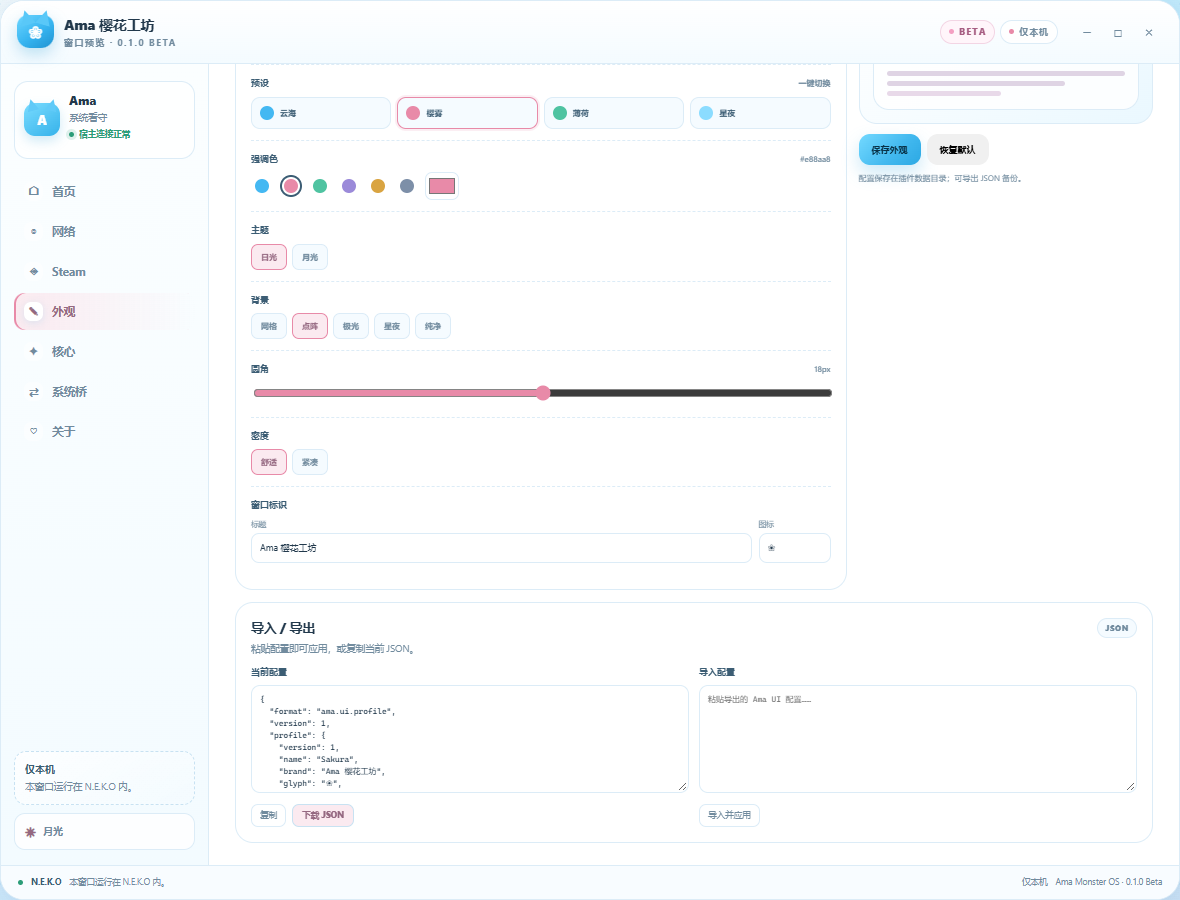
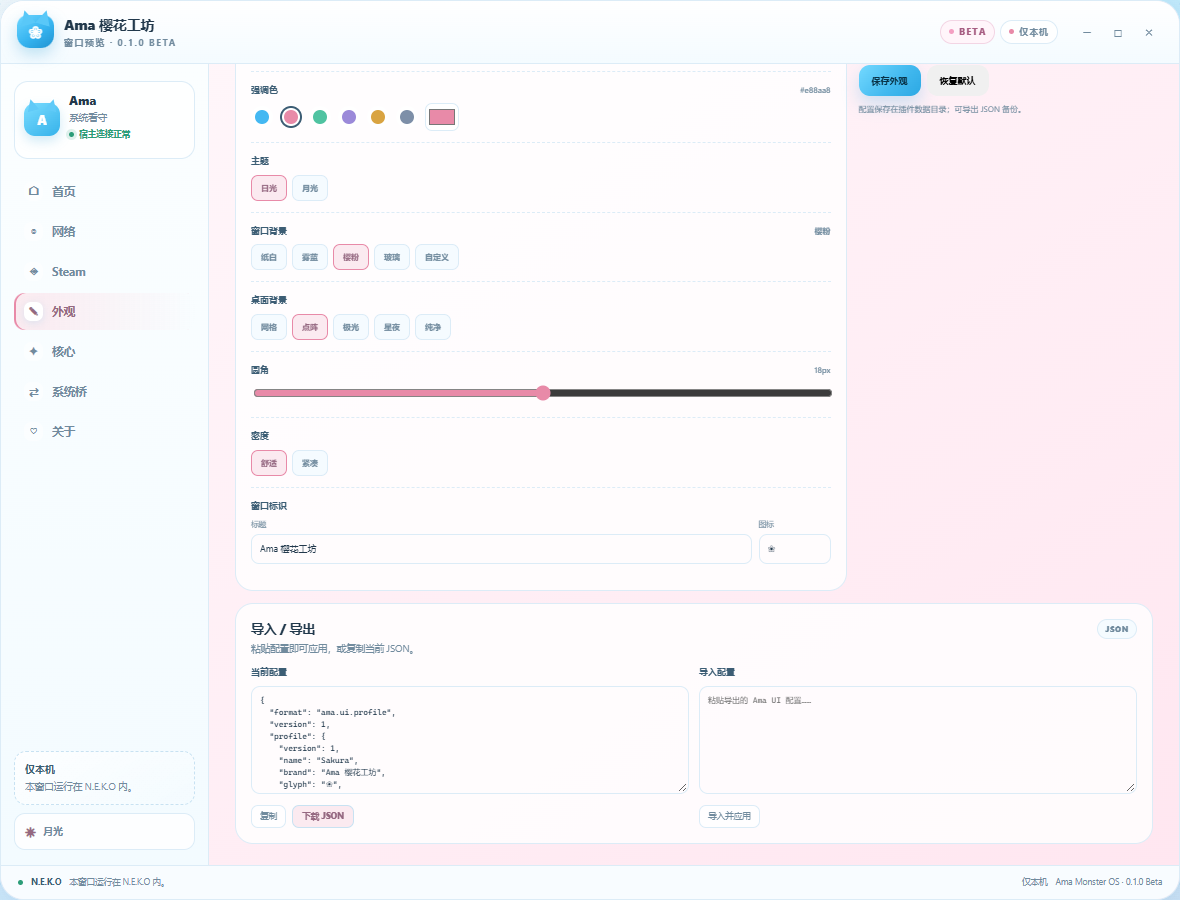
feat: add independent window background customization

diff --git a/ui/panel.tsx b/ui/panel.tsx
@@ -5,6 +5,7 @@ type ViewId = "home" | "web" | "steam" | "studio" | "core" | "bridge" | "about"
 type ChromeMode = "normal" | "max" | "min" | "asleep"
 type ThemeMode = "light" | "dark"
 type UiWallpaper = "grid" | "dots" | "aurora" | "stars" | "plain"
+type UiWindowBg = "paper" | "mist" | "sakura" | "glass" | "custom"
 type UiDensity = "comfortable" | "compact"
 
 type UiProfile = {
@@ -14,6 +15,8 @@ type UiProfile = {
   glyph: string
   accent: string
   wallpaper: UiWallpaper
+  window_bg: UiWindowBg
+  window_color: string
   radius: number
   density: UiDensity
   theme: ThemeMode
@@ -26,19 +29,22 @@ const DEFAULT_UI_PROFILE: UiProfile = {
   glyph: "✦",
   accent: "#44b8f2",
   wallpaper: "grid",
+  window_bg: "paper",
+  window_color: "#ffffff",
   radius: 16,
   density: "comfortable",
   theme: "light",
 }
 
-const UI_PRESETS: Array<{ id: string; labelKey: string; accent: string; wallpaper: UiWallpaper; theme: ThemeMode }> = [
-  { id: "cloud", labelKey: "studio.preset.cloud", accent: "#44b8f2", wallpaper: "grid", theme: "light" },
-  { id: "sakura", labelKey: "studio.preset.sakura", accent: "#e88aa8", wallpaper: "dots", theme: "light" },
-  { id: "mint", labelKey: "studio.preset.mint", accent: "#4fc3a1", wallpaper: "aurora", theme: "light" },
-  { id: "night", labelKey: "studio.preset.night", accent: "#8bdcff", wallpaper: "stars", theme: "dark" },
+const UI_PRESETS: Array<{ id: string; labelKey: string; accent: string; wallpaper: UiWallpaper; window_bg: UiWindowBg; theme: ThemeMode }> = [
+  { id: "cloud", labelKey: "studio.preset.cloud", accent: "#44b8f2", wallpaper: "grid", window_bg: "paper", theme: "light" },
+  { id: "sakura", labelKey: "studio.preset.sakura", accent: "#e88aa8", wallpaper: "dots", window_bg: "sakura", theme: "light" },
+  { id: "mint", labelKey: "studio.preset.mint", accent: "#4fc3a1", wallpaper: "aurora", window_bg: "mist", theme: "light" },
+  { id: "night", labelKey: "studio.preset.night", accent: "#8bdcff", wallpaper: "stars", window_bg: "glass", theme: "dark" },
 ]
 
 const UI_WALLPAPERS: UiWallpaper[] = ["grid", "dots", "aurora", "stars", "plain"]
+const UI_WINDOW_BACKGROUNDS: UiWindowBg[] = ["paper", "mist", "sakura", "glass", "custom"]
 const UI_ACCENTS = ["#44b8f2", "#e88aa8", "#4fc3a1", "#9b8ad9", "#d9a441", "#7d8fa8"]
 
 function normalizeUiProfile(value: any): UiProfile {
@@ -48,12 +54,24 @@ function normalizeUiProfile(value: any): UiProfile {
     : DEFAULT_UI_PROFILE.accent
   const radius = Math.max(8, Math.min(28, Math.round(Number(source.radius) || DEFAULT_UI_PROFILE.radius)))
   const wallpaper = UI_WALLPAPERS.indexOf(source.wallpaper) >= 0 ? source.wallpaper : DEFAULT_UI_PROFILE.wallpaper
+  const window_bg = UI_WINDOW_BACKGROUNDS.indexOf(source.window_bg) >= 0 ? source.window_bg : DEFAULT_UI_PROFILE.window_bg
+  const windowColor = typeof source.window_color === "string" && /^#[0-9a-f]{6}$/i.test(source.window_color.trim())
+    ? source.window_color.trim().toLowerCase()
+    : DEFAULT_UI_PROFILE.window_color
   const density: UiDensity = source.density === "compact" ? "compact" : "comfortable"
   const theme: ThemeMode = source.theme === "dark" ? "dark" : "light"
   const brand = String(source.brand || "").trim().slice(0, 24) || DEFAULT_UI_PROFILE.brand
   const glyph = String(source.glyph || "").trim().slice(0, 2) || DEFAULT_UI_PROFILE.glyph
   const name = String(source.name || "").trim().slice(0, 32) || DEFAULT_UI_PROFILE.name
-  return { version: 1, name, brand, glyph, accent, wallpaper, radius, density, theme }
+  return { version: 1, name, brand, glyph, accent, wallpaper, window_bg, window_color: windowColor, radius, density, theme }
+}
+
+function windowBackgroundValue(profile: UiProfile): string {
+  if (profile.window_bg === "custom") return profile.window_color
+  if (profile.window_bg === "mist") return "linear-gradient(145deg, color-mix(in srgb, var(--sky) 14%, var(--paper)), var(--paper))"
+  if (profile.window_bg === "sakura") return "linear-gradient(145deg, #fff8fb, #ffe6f0)"
+  if (profile.window_bg === "glass") return "color-mix(in srgb, var(--paper) 76%, transparent)"
+  return "var(--paper)"
 }
 
 function uiProfileDownloadUrl(value: any): string {
@@ -486,6 +504,7 @@ const STYLES = `
   mask-image: none;
   opacity: .55;
 }
+.ama-root[data-window-bg="glass"] .ama-window { backdrop-filter: blur(18px); }
 .ama-root[data-wallpaper="plain"] .ama-desktop::before { display: none; }
 .ama-root[data-radius="custom"] .ama-window { border-radius: calc(var(--ui-radius) + 6px) !important; }
 .ama-root[data-radius="custom"] .ama-hero,
@@ -526,7 +545,7 @@ const STYLES = `
   flex-direction: column;
   border-radius: 28px;
   border: 1px solid var(--line);
-  background: var(--paper);
+  background: var(--window-bg, var(--paper));
   box-shadow: var(--window-shadow);
   animation: ama-window-in .55s cubic-bezier(.2,.8,.2,1) both;
 }
@@ -1444,6 +1463,7 @@ export default function AmaMonsterOsPanel(props: PluginSurfaceProps<ShellState>)
       ...uiProfile,
       accent: preset.accent,
       wallpaper: preset.wallpaper,
+      window_bg: preset.window_bg,
       theme: preset.theme,
     }))
     setUiDirty(true)
@@ -2768,7 +2788,36 @@ export default function AmaMonsterOsPanel(props: PluginSurfaceProps<ShellState>)
           </div>
 
           <div className="ama-studio-group">
-            <div className="ama-studio-label">{tr("studio.wallpaper", "Backdrop")}</div>
+            <div className="ama-studio-label">
+              {tr("studio.windowBg", "Window background")}
+              <small>{uiProfile.window_bg === "custom" ? uiProfile.window_color : tr(`studio.windowBg.${uiProfile.window_bg}`, uiProfile.window_bg)}</small>
+            </div>
+            <div className="ama-studio-seg">
+              {UI_WINDOW_BACKGROUNDS.map((windowBg) => (
+                <button
+                  type="button"
+                  key={windowBg}
+                  className={uiProfile.window_bg === windowBg ? "is-active" : ""}
+                  onClick={() => patchUiProfile({ window_bg: windowBg })}
+                >{tr(`studio.windowBg.${windowBg}`, windowBg)}</button>
+              ))}
+            </div>
+            {uiProfile.window_bg === "custom" ? (
+              <div className="ama-swatches" style={{ marginTop: "7px" } as any}>
+                <input
+                  className="ama-studio-color"
+                  type="color"
+                  value={uiProfile.window_color}
+                  aria-label={tr("studio.windowColor", "Window colour")}
+                  onInput={(event: any) => patchUiProfile({ window_color: event.target.value })}
+                />
+                <span className="ama-studio-note">{uiProfile.window_color}</span>
+              </div>
+            ) : null}
+          </div>
+
+          <div className="ama-studio-group">
+            <div className="ama-studio-label">{tr("studio.wallpaper", "Desktop backdrop")}</div>
             <div className="ama-studio-seg">
               {UI_WALLPAPERS.map((wallpaper) => (
                 <button
@@ -2893,6 +2942,7 @@ export default function AmaMonsterOsPanel(props: PluginSurfaceProps<ShellState>)
     "--sky-soft": `color-mix(in srgb, ${uiProfile.accent} 18%, var(--card))`,
     "--sky-deep": `color-mix(in srgb, ${uiProfile.accent} 58%, var(--ink))`,
     "--ui-radius": `${uiProfile.radius}px`,
+    "--window-bg": windowBackgroundValue(uiProfile),
   } as any
 
   const footer = (
@@ -2938,6 +2988,7 @@ export default function AmaMonsterOsPanel(props: PluginSurfaceProps<ShellState>)
     <div
       className={`ama-root ama-theme-${activeTheme}`}
       data-wallpaper={uiProfile.wallpaper}
+      data-window-bg={uiProfile.window_bg}
       data-density={uiProfile.density}
       data-radius={uiProfile.radius === DEFAULT_UI_PROFILE.radius ? "default" : "custom"}
       style={uiStyle}

diff --git a/ui_profile.py b/ui_profile.py
@@ -17,6 +17,7 @@ UI_PROFILE_FORMAT = "ama.ui.profile"
 UI_PROFILE_VERSION = 1
 MAX_UI_PROFILE_BYTES = 16 * 1024
 WALLPAPERS = ("grid", "dots", "aurora", "stars", "plain")
+WINDOW_BACKGROUNDS = ("paper", "mist", "sakura", "glass", "custom")
 DENSITIES = ("comfortable", "compact")
 THEMES = ("light", "dark")
 _ACCENT_RE = re.compile(r"^#[0-9a-fA-F]{6}$")
@@ -28,6 +29,8 @@ DEFAULT_UI_PROFILE: dict[str, Any] = {
     "glyph": "✦",
     "accent": "#44b8f2",
     "wallpaper": "grid",
+    "window_bg": "paper",
+    "window_color": "#ffffff",
     "radius": 16,
     "density": "comfortable",
     "theme": "light",
@@ -58,6 +61,12 @@ def normalize_ui_profile(value: Any = None) -> dict[str, Any]:
     wallpaper = str(source.get("wallpaper") or "").strip().lower()
     if wallpaper not in WALLPAPERS:
         wallpaper = str(DEFAULT_UI_PROFILE["wallpaper"])
+    window_bg = str(source.get("window_bg") or "").strip().lower()
+    if window_bg not in WINDOW_BACKGROUNDS:
+        window_bg = str(DEFAULT_UI_PROFILE["window_bg"])
+    window_color = str(source.get("window_color") or "").strip()
+    if not _ACCENT_RE.match(window_color):
+        window_color = str(DEFAULT_UI_PROFILE["window_color"])
     density = str(source.get("density") or "").strip().lower()
     if density not in DENSITIES:
         density = str(DEFAULT_UI_PROFILE["density"])
@@ -71,6 +80,8 @@ def normalize_ui_profile(value: Any = None) -> dict[str, Any]:
         "glyph": _text(source.get("glyph"), str(DEFAULT_UI_PROFILE["glyph"]), 2),
         "accent": accent.lower(),
         "wallpaper": wallpaper,
+        "window_bg": window_bg,
+        "window_color": window_color.lower(),
         "radius": radius,
         "density": density,
         "theme": theme,
@@ -120,6 +131,7 @@ __all__ = [
     "UI_PROFILE_FORMAT",
     "UI_PROFILE_VERSION",
     "WALLPAPERS",
+    "WINDOW_BACKGROUNDS",
     "export_ui_profile",
     "normalize_ui_profile",
     "parse_ui_profile_payload",

diff --git a/tests/test_ui_profile.py b/tests/test_ui_profile.py
@@ -24,6 +24,8 @@ def test_profile_fields_are_clamped() -> None:
         "glyph": "✦✦✦",
         "accent": "red",
         "wallpaper": "unknown",
+        "window_bg": "unknown",
+        "window_color": "white",
         "radius": 99,
         "density": "tiny",
         "theme": "sepia",
@@ -33,9 +35,25 @@ def test_profile_fields_are_clamped() -> None:
     assert profile["glyph"] == "✦✦"
     assert profile["accent"] == DEFAULT_UI_PROFILE["accent"]
     assert profile["wallpaper"] == "grid"
+    assert profile["window_bg"] == "paper"
+    assert profile["window_color"] == "#ffffff"
     assert profile["radius"] == 28
     assert profile["density"] == "comfortable"
     assert profile["theme"] == "light"
+
+
+def test_custom_window_background_round_trip() -> None:
+    profile = normalize_ui_profile({
+        "window_bg": "custom",
+        "window_color": "#F4E6FF",
+        "brand": "Window Only",
+    })
+    assert profile["window_bg"] == "custom"
+    assert profile["window_color"] == "#f4e6ff"
+    exported = export_ui_profile(profile)
+    parsed, error = parse_ui_profile_payload(json.dumps(exported))
+    assert error == ""
+    assert parsed["window_color"] == "#f4e6ff"
 
 
 def test_export_round_trip() -> None:

diff --git a/docs/ui-studio.md b/docs/ui-studio.md
@@ -28,6 +28,8 @@
     "glyph": "✦",
     "accent": "#e88aa8",
     "wallpaper": "dots",
+    "window_bg": "sakura",
+    "window_color": "#ffffff",
     "radius": 16,
     "density": "comfortable",
     "theme": "light"
@@ -45,10 +47,15 @@
 | `profile.brand` | 字符串 | 窗口左上角标题，最长 24 字符 |
 | `profile.glyph` | 字符串 | 窗口图标，最长 2 字符，例如 `✦`、`❀`、`♥` |
 | `profile.accent` | 字符串 | 六位十六进制颜色，例如 `#44b8f2` |
-| `profile.wallpaper` | 字符串 | `grid` / `dots` / `aurora` / `stars` / `plain` |
+| `profile.wallpaper` | 字符串 | 窗口外桌面背景：`grid` / `dots` / `aurora` / `stars` / `plain` |
+| `profile.window_bg` | 字符串 | **窗口本身背景**：`paper` / `mist` / `sakura` / `glass` / `custom` |
+| `profile.window_color` | 字符串 | `window_bg=custom` 时的窗口背景色，六位十六进制 |
 | `profile.radius` | 数字 | 圆角，8–28，超出会截断 |
 | `profile.density` | 字符串 | `comfortable` / `compact` |
 | `profile.theme` | 字符串 | `light` / `dark` |
+
+> `wallpaper` 是窗口**外**的桌面花纹；`window_bg` 才是窗口**本身**的背景。
+> 两者可以独立设置。
 
 也可以只写 `profile` 里的字段，不带 `format` 外层：
 
@@ -58,6 +65,8 @@
   "glyph": "☾",
   "accent": "#8bdcff",
   "wallpaper": "stars",
+  "window_bg": "glass",
+  "window_color": "#ffffff",
   "radius": 20,
   "density": "compact",
   "theme": "dark"
@@ -89,7 +98,8 @@
 
 - **强调色**：点色板，或使用右侧取色器
 - **主题**：日光 / 月光
-- **背景**：网格 / 点阵 / 极光 / 星夜 / 纯净
+- **窗口背景**：纸白 / 雾蓝 / 樱粉 / 玻璃 / 自定义颜色
+- **桌面背景**：网格 / 点阵 / 极光 / 星夜 / 纯净
 - **圆角**：拖动 8–28px
 - **密度**：舒适 / 紧凑
 - **窗口标识**：修改标题和图标
@@ -166,6 +176,8 @@
     "glyph": "❀",
     "accent": "#e88aa8",
     "wallpaper": "dots",
+    "window_bg": "sakura",
+    "window_color": "#ffffff",
     "radius": 18,
     "density": "comfortable",
     "theme": "light"
@@ -186,6 +198,8 @@
     "glyph": "☾",
     "accent": "#8bdcff",
     "wallpaper": "stars",
+    "window_bg": "glass",
+    "window_color": "#ffffff",
     "radius": 20,
     "density": "compact",
     "theme": "dark"
@@ -206,6 +220,8 @@
     "glyph": "✦",
     "accent": "#4fc3a1",
     "wallpaper": "aurora",
+    "window_bg": "mist",
+    "window_color": "#ffffff",
     "radius": 16,
     "density": "comfortable",
     "theme": "light"

diff --git a/README.md b/README.md
@@ -25,9 +25,9 @@ system. It runs as a normal N.E.K.O Hosted TSX plugin and is honest about what
   lows, CN prices, and a playful **“可以不玩，但不能没有”** flag.
 - A **free-to-play shelf** of permanently free Steam titles, versioned as a
   curated snapshot rather than a live catalogue.
-- A **UI Studio** for custom accent, light/dark theme, backdrop, corner radius,
-  compact density, window title, and glyph. Profiles are saved in the plugin
-  data folder and can be exported/imported as JSON.
+- A **UI Studio** for custom accent, light/dark theme, **window background**,
+  desktop backdrop, corner radius, compact density, window title, and glyph.
+  Profiles are saved in the plugin data folder and can be exported/imported as JSON.
 - A **Pulse check** action that calls the Python plugin and refreshes the
   context through the real Hosted UI bridge.
 - A stable, versioned contract (`ama.system.bridge` v1.0.0) and a `SystemPort`
@@ -141,7 +141,8 @@ The **Studio** room is a safe, declarative appearance editor:
 - presets: Cloud, Sakura, Mint, Night
 - accent colour picker and swatches
 - light/dark theme
-- backdrop: grid, dots, aurora, stars, plain
+- **window background**: paper, mist, sakura, glass, or a custom colour
+- desktop backdrop: grid, dots, aurora, stars, plain
 - corner radius and compact density
 - custom window title and glyph
 - live preview before saving

diff --git a/DESIGN.md b/DESIGN.md
@@ -28,7 +28,7 @@ from the first version.
 - A Steam sale-picks tab with high-discount, well-rated games, historical lows, CN prices, and Chinese titles shown underneath the English original.
 - A curated Chinese-title map for older Steam games whose official `l=schinese` name remains English.
 - A curated, versioned free-to-play shelf with fixed Steam store links.
-- A **UI Studio** with presets, accent colour, light/dark theme, backdrop pattern, radius, density, window title/glyph, live preview, persistent profile, and JSON import/export.
+- A **UI Studio** with presets, accent colour, light/dark theme, **window background**, desktop backdrop pattern, radius, density, window title/glyph, live preview, persistent profile, and JSON import/export.
 - A versioned Steam sale calendar snapshot sourced from Steamworks, with current/next event, next seasonal sale, local countdowns, and an official schedule link.
 - A two-provider search chain: N.E.K.O `web_search` first, fixed Bing RSS fallback second.
 - Steam account login is deliberately deferred; the UI says so and never asks for a password.

diff --git a/docs/system-contract.md b/docs/system-contract.md
@@ -238,6 +238,8 @@ by the Studio UI and the plugin persistence action:
   "glyph": "✦",
   "accent": "#e88aa8",
   "wallpaper": "dots",
+  "window_bg": "sakura",
+  "window_color": "#ffffff",
   "radius": 16,
   "density": "comfortable",
   "theme": "light"
@@ -246,8 +248,11 @@ by the Studio UI and the plugin persistence action:
 
 Rules:
 
-- `accent` must be a six-digit hex colour.
-- `wallpaper` is one of `grid`, `dots`, `aurora`, `stars`, `plain`.
+- `accent` and `window_color` must be six-digit hex colours.
+- `wallpaper` is one of `grid`, `dots`, `aurora`, `stars`, `plain` and controls
+  the desktop behind the window.
+- `window_bg` is one of `paper`, `mist`, `sakura`, `glass`, `custom` and controls
+  the window surface itself; `window_color` is used only for `custom`.
 - `density` is `comfortable` or `compact`; `theme` is `light` or `dark`.
 - `radius` is clamped to 8–28; text fields are length-limited.
 - The plugin writes `data/ui_profile.json` in its data folder through
